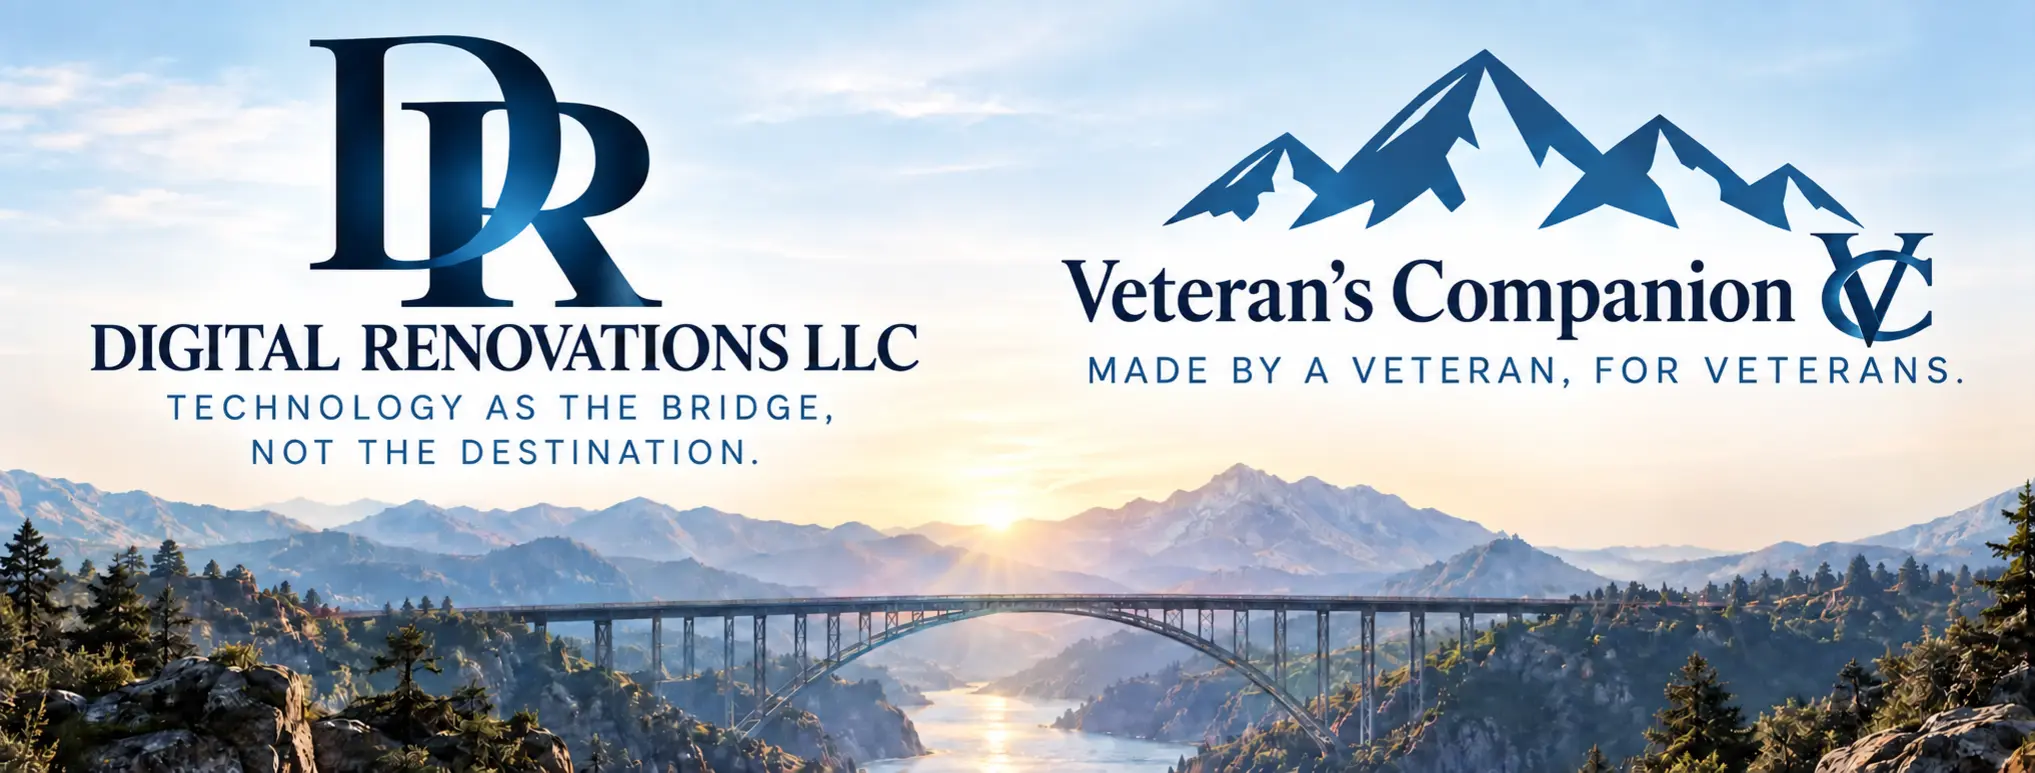
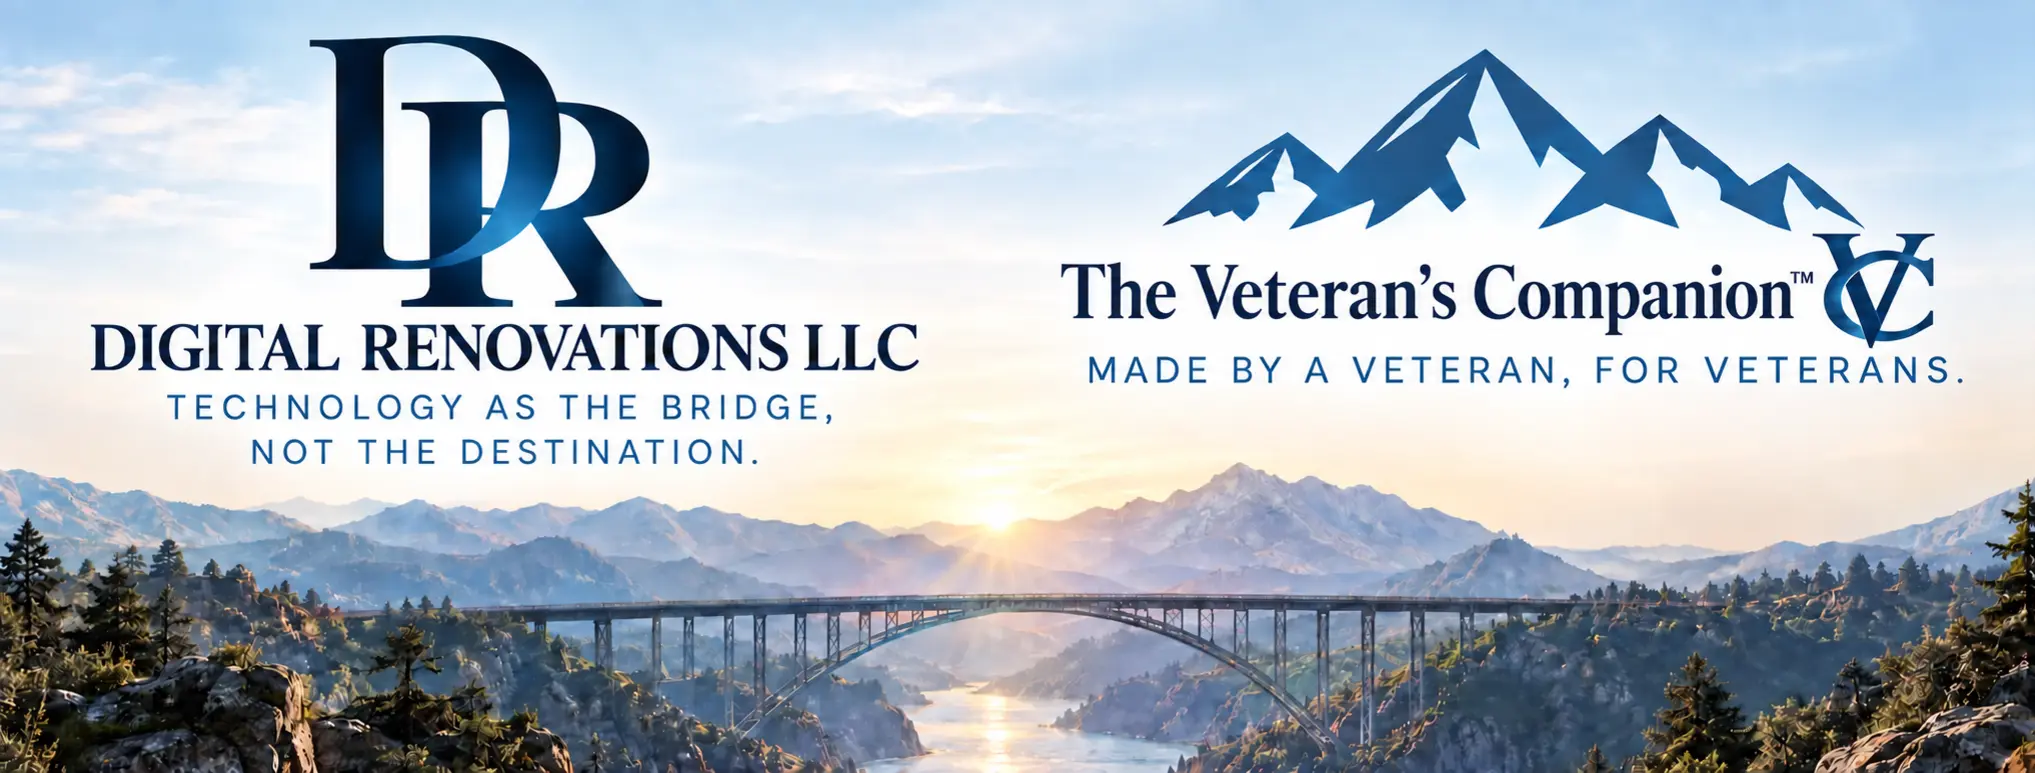
Use full Veteran’s Companion trademark in header

diff --git a/index.html b/index.html
@@ -42,7 +42,7 @@
 
       <section class="identity-banner" aria-label="Digital Renovations and The Veteran’s Companion">
         <img
-          src="digital-renovations-banner.webp?v=3"
+          src="digital-renovations-banner.webp?v=4"
           alt="Digital Renovations LLC and The Veteran’s Companion. Technology as the bridge, not the destination. Made by a Veteran, for Veterans."
           width="2035"
           height="773"
